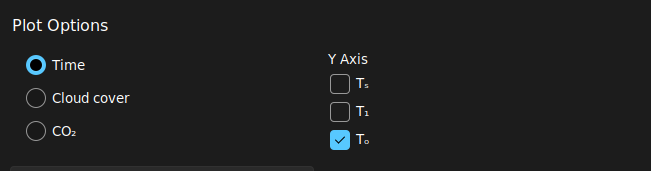
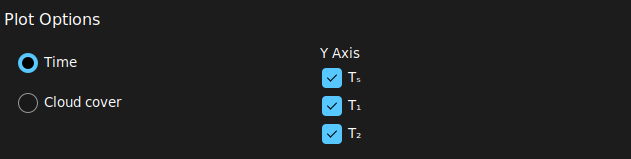
Select x and  y axis

diff --git a/climatepredictor/gui.py b/climatepredictor/gui.py
@@ -463,25 +463,20 @@ def make_slider_entry(root,label,variable,rowno,colno, type):
 #        new_entry.bind('<KeyRelease>', desert_change, add= '+')
 
 #function for making a Radiobutton
-def make_radio_button(frame,name,variable_in,value_in,rowno,initial_state):
+def make_radio_button(frame,name,variable_in,value_in,rowno):
     radio_button=ttk.Radiobutton(frame,text=name,variable=variable_in, value=value_in, command = lambda : execute_main(None))
     radio_button.grid(column=0,row=rowno,sticky=(N, S, E, W))
-    radio_button.state(['!alternate'])
-    if initial_state=='On':
-        radio_button.state(['selected'])
-    elif initial_state=='Off':
-        radio_button.state(['!selected'])
-    #radio_button.bind('<Button-1>', execute_main)
+   
 
 #function for making a Checkbutton
 def make_check_button(frame,name,variable_in,initial_state,rowno):
     check_button=ttk.Checkbutton(frame,text=name,variable=variable_in,onvalue='On',offvalue='Off', command = lambda : execute_main(None))
     check_button.grid(column=0,row=rowno,sticky=(N, S, E, W))
-    check_button.state(['!alternate']) #clear alternate state
-    if initial_state=='On':
-        check_button.state(['selected'])
-    else:
-        check_button.state(['!selected'])
+    #check_button.state(['!alternate']) #clear alternate state
+    #if initial_state=='On':
+        #check_button.state(['selected'])
+    #else:
+        #check_button.state(['!selected'])
     #check_button.bind('<Button-1>', execute_main)
 
 #close plots when GUI is closed
@@ -577,7 +572,7 @@ def show_plot():
         albedo = albedo_initial_update
         albedo_rate = albedo_rate_update
     
-    print(xaxis_update)
+  
 
     solution, t = solve_over_time(solar_flux_update,albedo,epsilon1_initial_update,epsilon2_initial_update,time_interval_update,time_duration_update,albedo_rate,epsilon1_rate_update,epsilon2_rate_update,delta_Solar,calcs_per_timestep)
     fig = make_plot(solution, t, Ts_update, T1_update, T2_update, xaxis_update)
@@ -842,30 +837,30 @@ for i in range(rowspanf):
 xaxis = StringVar()
 xaxis_label=ttk.Label(xaxis_frame,text='X Axis')
 xaxis_label.grid(column=0,row=0,sticky=(N, S, E, W))
-make_radio_button(xaxis_frame,'Time',xaxis,'time',0,'On')
-make_radio_button(xaxis_frame,'Cloud cover',xaxis,'cloud cover',1,'Off')
+make_radio_button(xaxis_frame,'Time',xaxis,'time',0)
+make_radio_button(xaxis_frame,'Cloud cover',xaxis,'cloud cover',1)
+xaxis.set('time') #set xaxis to a value
 
 
 
 # customise y axis frame
 Ts_switch = StringVar()
-Ts_switch.set('On')
 T1_switch = StringVar()
-T1_switch.set('On')
 T2_switch = StringVar()
-T2_switch.set('On')
 yaxis_label=ttk.Label(yaxis_frame,text='Y Axis')
 yaxis_label.grid(column=0,row=0,sticky=(N, S, E, W))
 make_check_button(yaxis_frame,u'T\u209B',Ts_switch,Ts_update,1)
 make_check_button(yaxis_frame,u'T\u2081',T1_switch,T1_update,2)
-make_check_button(yaxis_frame,u'T\u2092',T2_switch,T2_update,3)
-
+make_check_button(yaxis_frame,u'T\u2082',T2_switch,T2_update,3)
+Ts_switch.set('On')
+T1_switch.set('On')
+T2_switch.set('On')
 
 #X axis advanced options -initiall a button
 
-make_radio_button(xaxis_advanced,'Albedo', xaxis,'albedo',0,'Off')
-make_radio_button(xaxis_advanced,u'\u03B5\u2081',xaxis,'epsilon1',1,'Off')
-make_radio_button(xaxis_advanced,u'\u03B5\u2082',xaxis,'epsilon2',2,'Off')
+make_radio_button(xaxis_advanced,'Albedo', xaxis,'albedo',0)
+make_radio_button(xaxis_advanced,u'\u03B5\u2081',xaxis,'epsilon1',1)
+make_radio_button(xaxis_advanced,u'\u03B5\u2082',xaxis,'epsilon2',2)
 xaxis_advanced.grid_remove()
 
 

diff --git a/README.md b/README.md
@@ -113,7 +113,7 @@ In this simple example, shows change in surface temperature for a 10% increase i
 ![Choose plot options!](examples/set_plot_options.png)
 
 6. Plot automatically updates
-![Resulting!](examples/set_clouds.png)
+![Resulting plot!](examples/graph.png)
 
 <p align="right">(<a href="#top">back to top</a>)</p>
 
